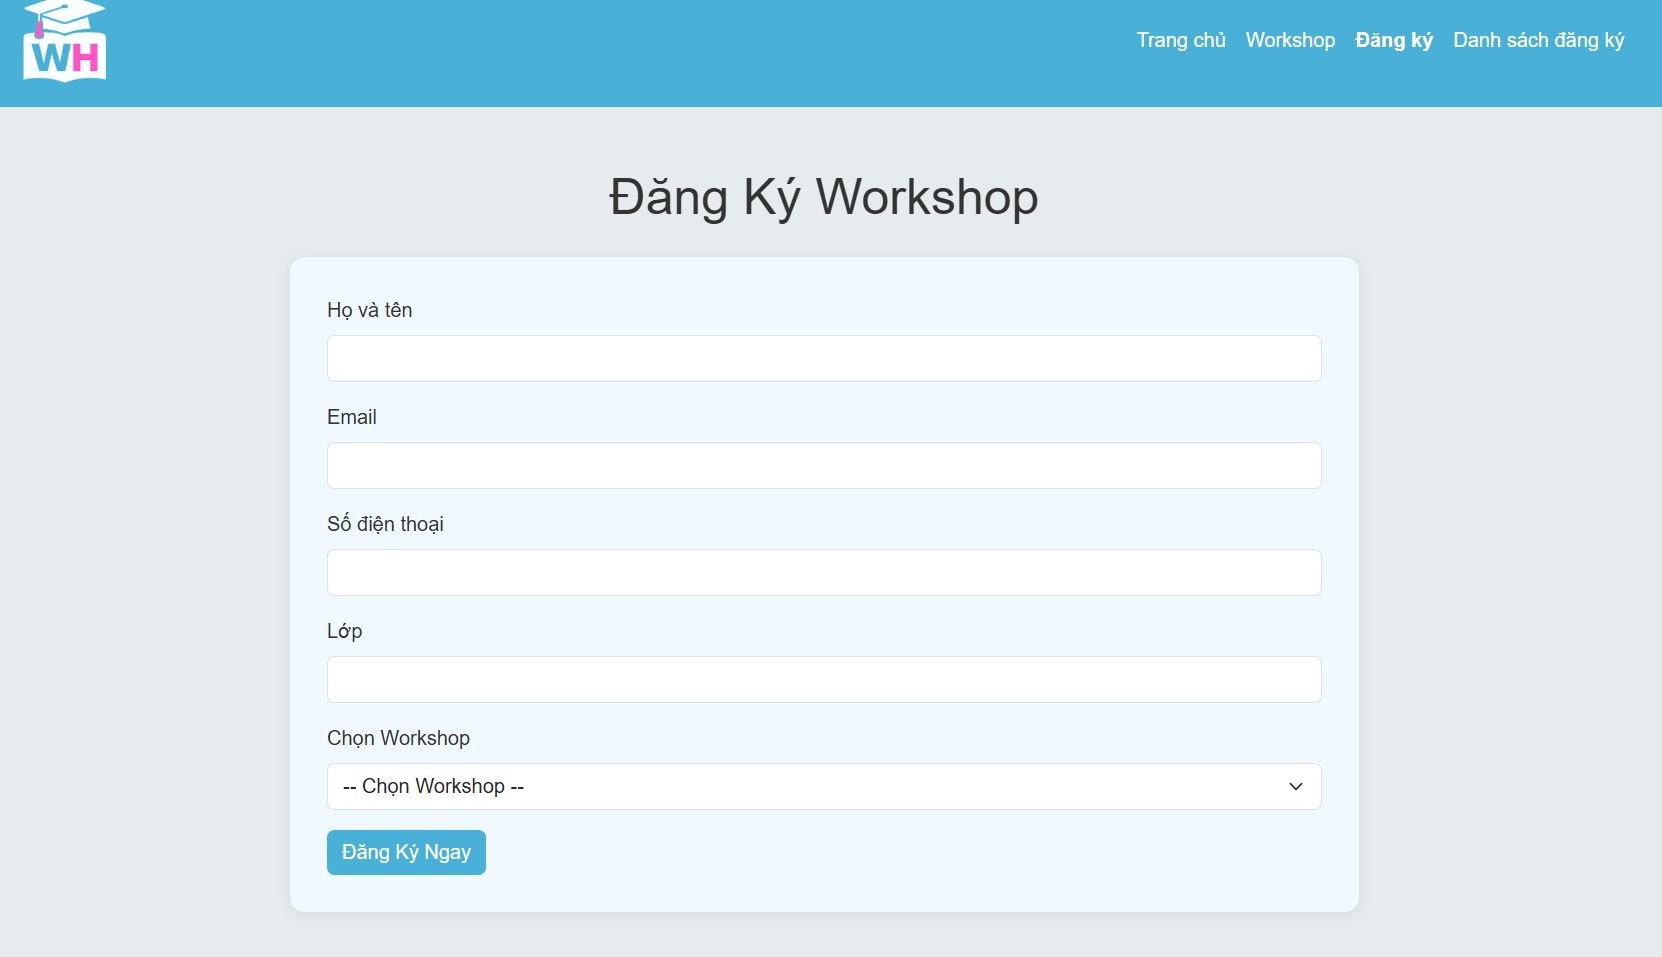
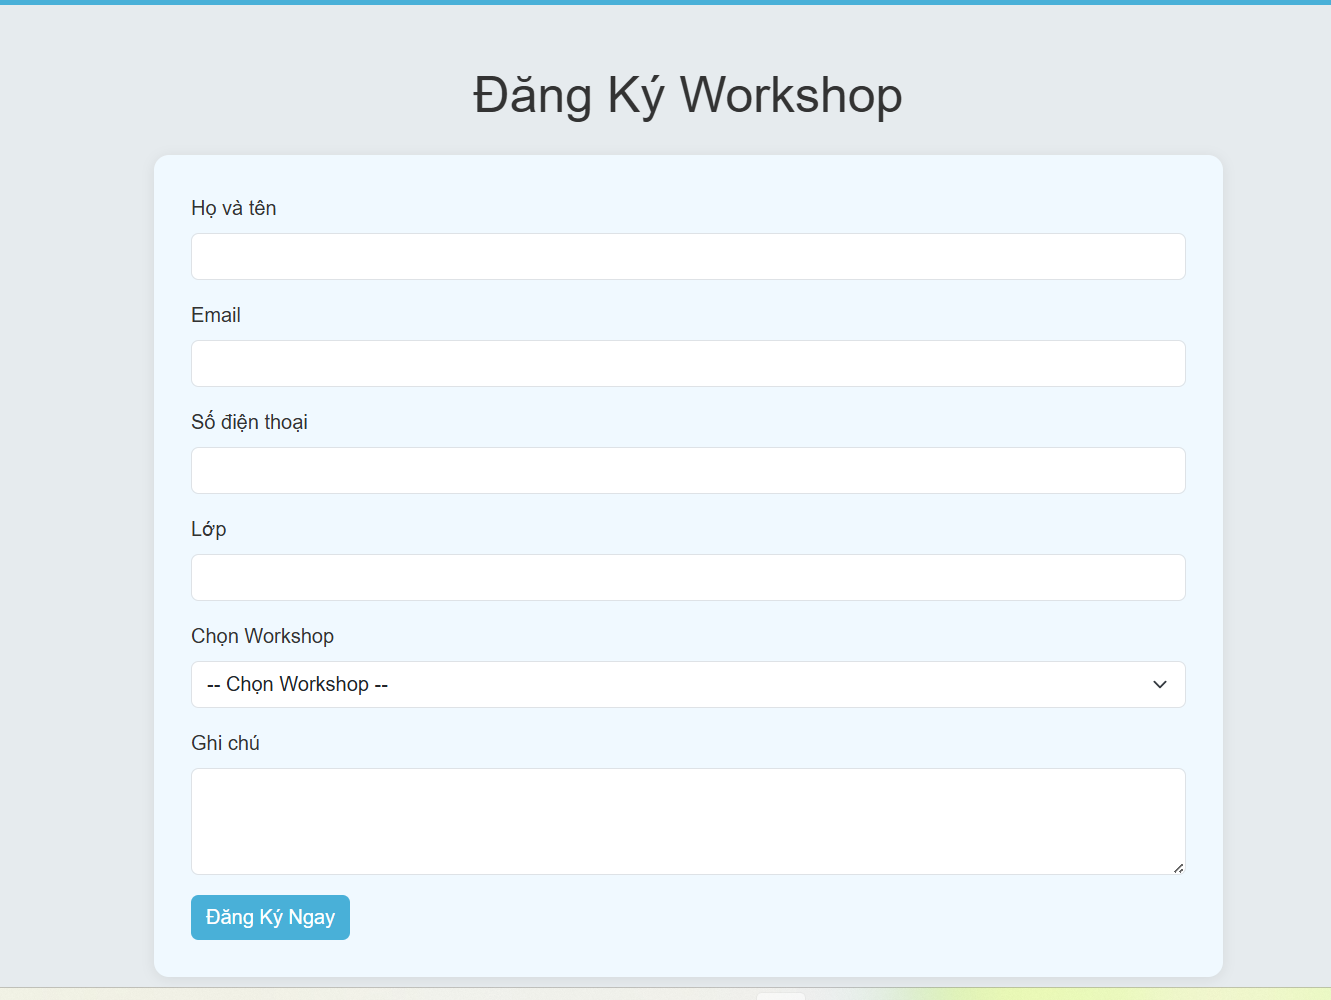
Cap nhat toan bo project

diff --git a/assets/js/main.js b/assets/js/main.js
@@ -1,5 +1,5 @@
 const courseList = document.getElementById("courseList");
-function renderCourses(data) {
+function renderCourses(data) {/*hiển thị danh sách workshop*/
 
     if (!courseList) return;
 
@@ -78,7 +78,7 @@ if (courseList) {
     const resetBtn =
         document.getElementById("resetBtn");
 
-    function filterCourses() {
+    function filterCourses() {/*tìm và lọc worshop*/
 
         const keyword =
             searchInput.value.toLowerCase();
@@ -146,7 +146,7 @@ if (courseList) {
     );
 
 }
-function showDetail(id) {
+function showDetail(id) {/*xem chi tiết*/
 
     const course =
         courses.find(c => c.id === id);
@@ -379,7 +379,7 @@ const registrationTable =
         "registrationTable"
     );
 
-function renderRegistrations() {
+function renderRegistrations() {/*hiển thị người đăng kí*/
 
     if (!registrationTable) return;
 
@@ -447,7 +447,7 @@ registrations.forEach(
 
 }
 
-function deleteRegistration(id){
+function deleteRegistration(id){/*xóa1 đk*/
 
     if(
         !confirm(

diff --git a/register.html b/register.html
@@ -83,8 +83,6 @@
 
                 <form id="registerForm">
 
-                    <!-- HỌ TÊN -->
-
                     <div class="mb-3">
 
                         <label class="form-label">